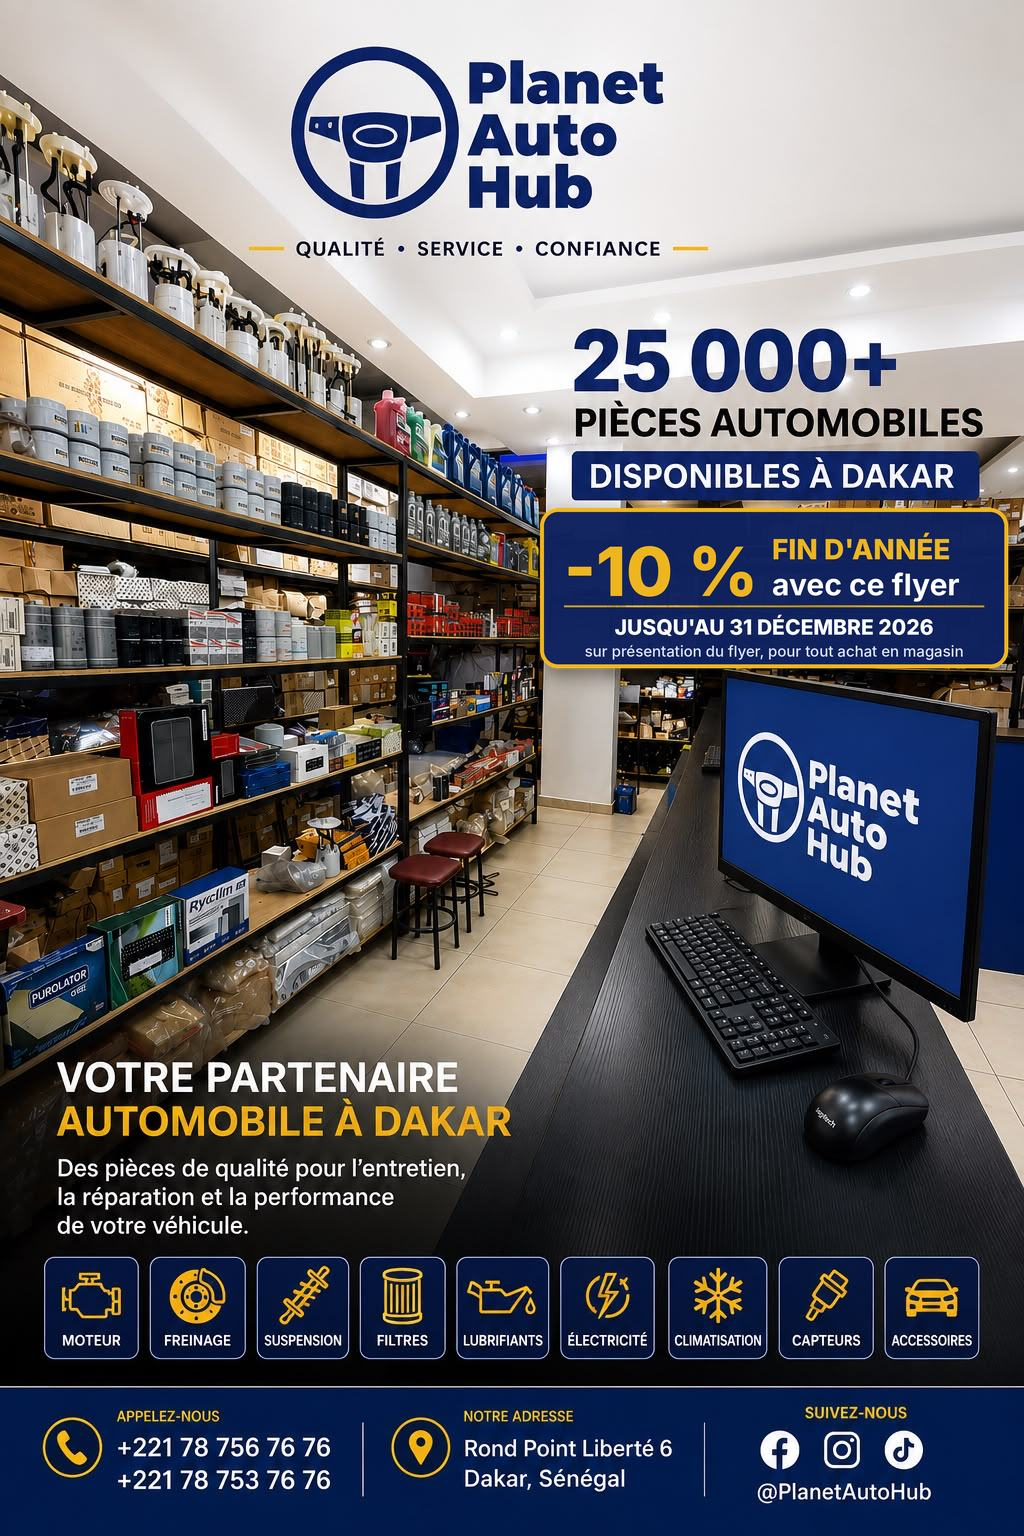
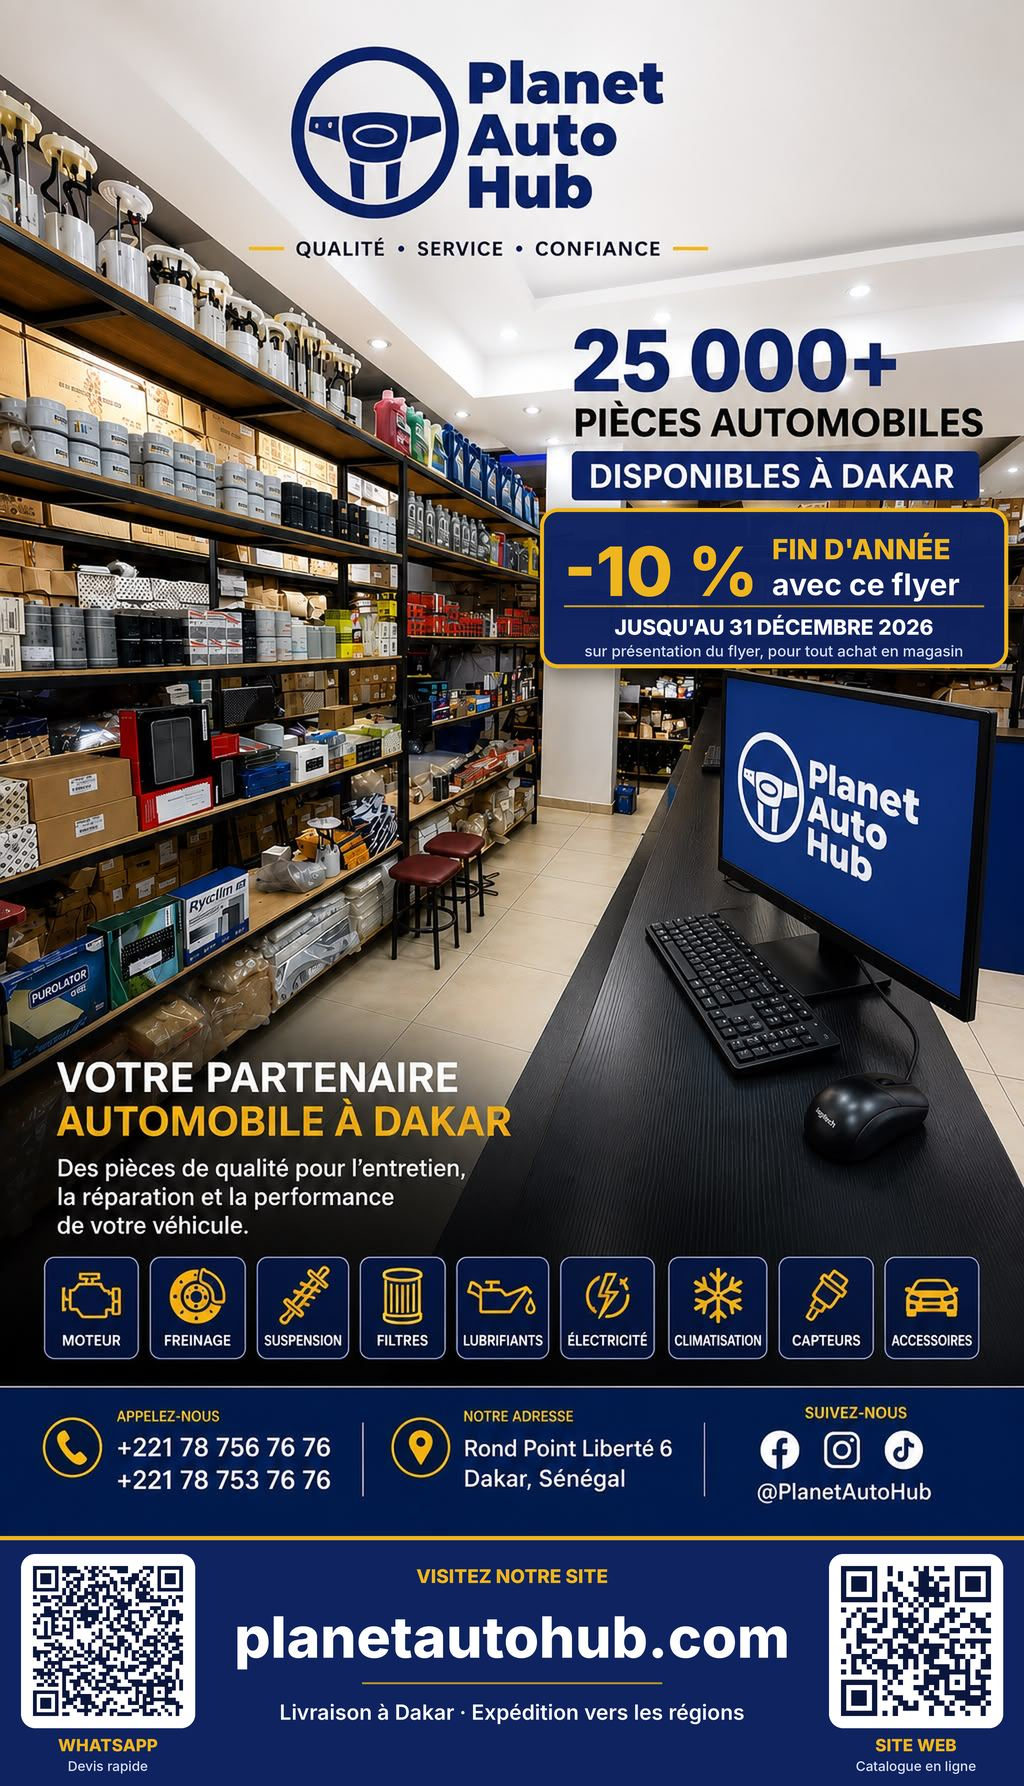
Flyer: bottom panel with website, WhatsApp and website QR codes (src=flyer tag), delivery line; email template adds the website
Claude-Session: https://claude.ai/code/session_015Hu54Z7xz1wkMmYUvQPCmc

diff --git a/index.html b/index.html
@@ -2619,7 +2619,7 @@ const FLYER_IMG = 'https://app.planetautohub.com/brand/flyer-2026-12-31.jpg';
 // Starting texts. {prénom} and {nom} become the customer's name. {{optin}} and {{stop}} are the personal reply links of the invitation.
 const CB_TPL = {
   invite: { name:'Invitation to subscribe', fr:{ subject:'Voulez-vous recevoir nos offres ?', head:'Restons en contact', body:'Bonjour {prénom},\n\nPlanet Auto Hub, votre spécialiste de pièces auto à Dakar, aimerait vous envoyer ses promotions et ses nouveautés par e-mail.\n\nSouhaitez-vous les recevoir ?', btnText:'Oui, je m\'abonne', btnUrl:'{{optin}}', ps:'Pas intéressé(e) ? Vous ne recevrez plus rien de notre part.' }, en:{ subject:'Would you like to receive our offers?', head:'Let\'s stay in touch', body:'Hi {prénom},\n\nPlanet Auto Hub, your auto parts specialist in Dakar, would like to send you its offers and news by email.\n\nWould you like to receive them?', btnText:'Yes, subscribe me', btnUrl:'{{optin}}', ps:'Not interested? You will not hear from us again.' } },
-  flyer: { name:'Flyer offer: 10% until Dec 31', fr:{ subject:'Fin d\'année : -10 % avec notre flyer jusqu\'au 31 décembre', head:'Fin d\'année : -10 % avec notre flyer', body:'Bonjour {prénom},\n\nJusqu\'au 31 décembre 2026, apportez ce flyer (imprimé ou sur votre téléphone) chez Planet Auto Hub et profitez de -10 % sur votre achat.\n\nPlus de 25 000 pièces automobiles disponibles à Dakar : moteur, freinage, suspension, filtres, lubrifiants, électricité, climatisation, capteurs et accessoires.\n\nRond Point Liberté 6, Dakar. Appelez-nous au +221 78 756 76 76 ou +221 78 753 76 76.', btnText:'Nous écrire sur WhatsApp', btnUrl:PAH_WA, ps:'Offre valable jusqu\'au 31 décembre 2026, sur présentation du flyer, pour tout achat en magasin.', img:FLYER_IMG }, en:{ subject:'End of year: 10% off with our flyer until December 31', head:'End of year: 10% off with our flyer', body:'Hi {prénom},\n\nUntil December 31, 2026, bring this flyer (printed or on your phone) to Planet Auto Hub and get 10% off your purchase.\n\nOver 25,000 auto parts available in Dakar: engine, brakes, suspension, filters, lubricants, electrical, air conditioning, sensors and accessories.\n\nRond Point Liberté 6, Dakar. Call us on +221 78 756 76 76 or +221 78 753 76 76.', btnText:'Message us on WhatsApp', btnUrl:PAH_WA, ps:'Offer valid until December 31, 2026, when you show this flyer in store with a purchase.', img:FLYER_IMG } },
+  flyer: { name:'Flyer offer: 10% until Dec 31', fr:{ subject:'Fin d\'année : -10 % avec notre flyer jusqu\'au 31 décembre', head:'Fin d\'année : -10 % avec notre flyer', body:'Bonjour {prénom},\n\nJusqu\'au 31 décembre 2026, apportez ce flyer (imprimé ou sur votre téléphone) chez Planet Auto Hub et profitez de -10 % sur votre achat.\n\nPlus de 25 000 pièces automobiles disponibles à Dakar : moteur, freinage, suspension, filtres, lubrifiants, électricité, climatisation, capteurs et accessoires.\n\nLivraison à Dakar et expédition vers les régions. Catalogue en ligne : planetautohub.com\n\nRond Point Liberté 6, Dakar. Appelez-nous au +221 78 756 76 76 ou +221 78 753 76 76.', btnText:'Nous écrire sur WhatsApp', btnUrl:PAH_WA, ps:'Offre valable jusqu\'au 31 décembre 2026, sur présentation du flyer, pour tout achat en magasin.', img:FLYER_IMG }, en:{ subject:'End of year: 10% off with our flyer until December 31', head:'End of year: 10% off with our flyer', body:'Hi {prénom},\n\nUntil December 31, 2026, bring this flyer (printed or on your phone) to Planet Auto Hub and get 10% off your purchase.\n\nOver 25,000 auto parts available in Dakar: engine, brakes, suspension, filters, lubricants, electrical, air conditioning, sensors and accessories.\n\nWe deliver in Dakar and ship to the regions. Online catalog: planetautohub.com\n\nRond Point Liberté 6, Dakar. Call us on +221 78 756 76 76 or +221 78 753 76 76.', btnText:'Message us on WhatsApp', btnUrl:PAH_WA, ps:'Offer valid until December 31, 2026, when you show this flyer in store with a purchase.', img:FLYER_IMG } },
   promo: { name:'Promotion', fr:{ subject:'Offre Planet Auto Hub : -10 % sur les plaquettes de frein', head:'-10 % sur les plaquettes de frein', body:'Bonjour {prénom},\n\nJusqu\'au 31 décembre, profitez de -10 % sur toutes les plaquettes de frein.\n\nÉcrivez-nous sur WhatsApp avec la marque et le modèle de votre véhicule : nous vous répondons avec le prix et la disponibilité.', btnText:'Commander sur WhatsApp', btnUrl:PAH_WA, ps:'' }, en:{ subject:'Planet Auto Hub offer: 10% off brake pads', head:'10% off brake pads', body:'Hi {prénom},\n\nUntil December 31, enjoy 10% off all brake pads.\n\nMessage us on WhatsApp with your vehicle\'s make and model: we reply with the price and availability.', btnText:'Order on WhatsApp', btnUrl:PAH_WA, ps:'' } },
   stock: { name:'New stock arrived', fr:{ subject:'Nouveau stock chez Planet Auto Hub', head:'Nouveau stock arrivé', body:'Bonjour {prénom},\n\nNous venons de recevoir de nouvelles pièces. Dites-nous ce que vous cherchez et nous vérifions pour vous.', btnText:'Demander une pièce', btnUrl:PAH_WA, ps:'' }, en:{ subject:'New stock at Planet Auto Hub', head:'New stock has arrived', body:'Hi {prénom},\n\nWe have just received new parts. Tell us what you need and we will check for you.', btnText:'Ask for a part', btnUrl:PAH_WA, ps:'' } },
   thanks: { name:'Thank you after a purchase', fr:{ subject:'Merci pour votre achat', head:'Merci {prénom} !', body:'Merci d\'avoir choisi Planet Auto Hub. Si une pièce ne convient pas ou si vous avez besoin d\'autre chose, écrivez-nous : nous sommes là pour vous aider.', btnText:'Nous écrire sur WhatsApp', btnUrl:PAH_WA, ps:'' }, en:{ subject:'Thank you for your purchase', head:'Thank you {prénom}!', body:'Thank you for choosing Planet Auto Hub. If a part does not fit or you need anything else, message us: we are here to help.', btnText:'Message us on WhatsApp', btnUrl:PAH_WA, ps:'' } },
